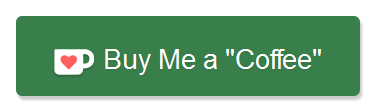
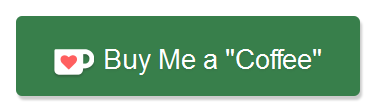
Small image adaptions

Changed region(s): [[0.1463, 0.4245, 0.8777, 0.7075], [0.0293, 0.8491, 0.9654, 0.9623], [0.0293, 0.1415, 0.9654, 0.1981]]

diff --git a/README.md b/README.md
@@ -10,7 +10,7 @@ Comming soon
 ## Support me
 If you like my work, spread the word so more people can enjoy it.  
 You also can show your appreciation with a metaphorical coffee or cabbage: 
-<a href='https://ko-fi.com/Q5Q0BT8U' target='_blank'><img height='53' style='border:0px;height:53px;' 
+<a href='https://ko-fi.com/Q5Q0BT8U' target='_blank'><img height='55' style='border:0px;height:55px;' 
 src='https://github.com/CabbageCrow/HandyUpgrades/blob/master/img/Kofi_btn/kofi_btn_coffee.png?v=0' border='0' alt='Buy Me a Coffee at ko-fi.com' /></a>
 <a href='https://ko-fi.com/Q5Q0BT8U' target='_blank'><img height='55' style='border:0px;height:55px;' 
 src='https://github.com/CabbageCrow/HandyUpgrades/blob/master/img/Kofi_btn/kofi_btn_cabbage.png?v=0' border='0' alt='Buy Me a Coffee at ko-fi.com' /></a>
